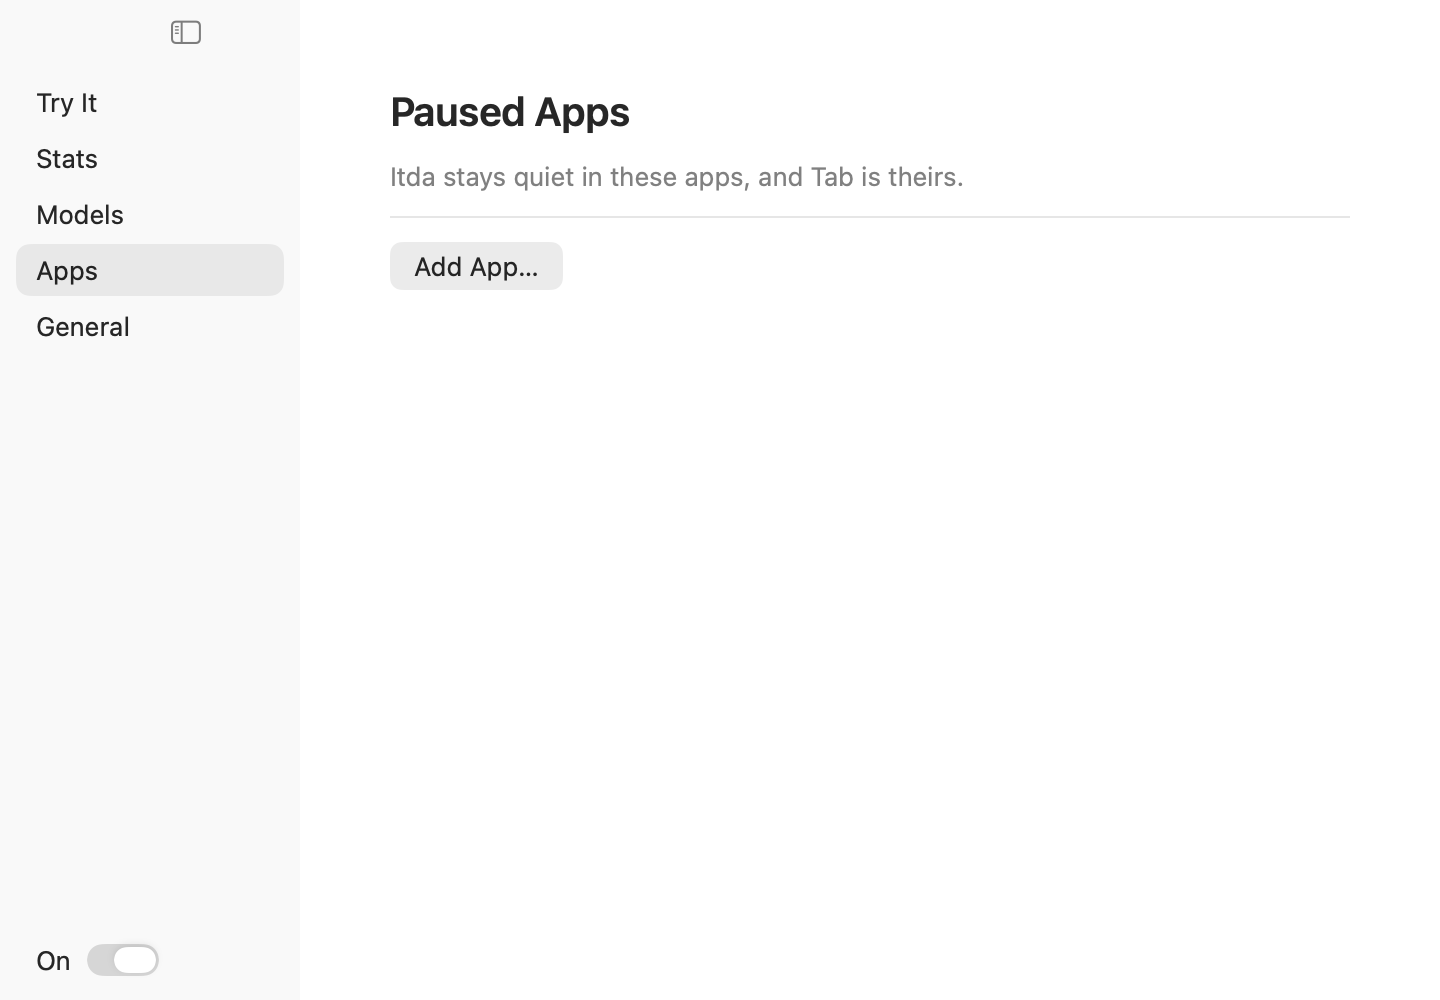
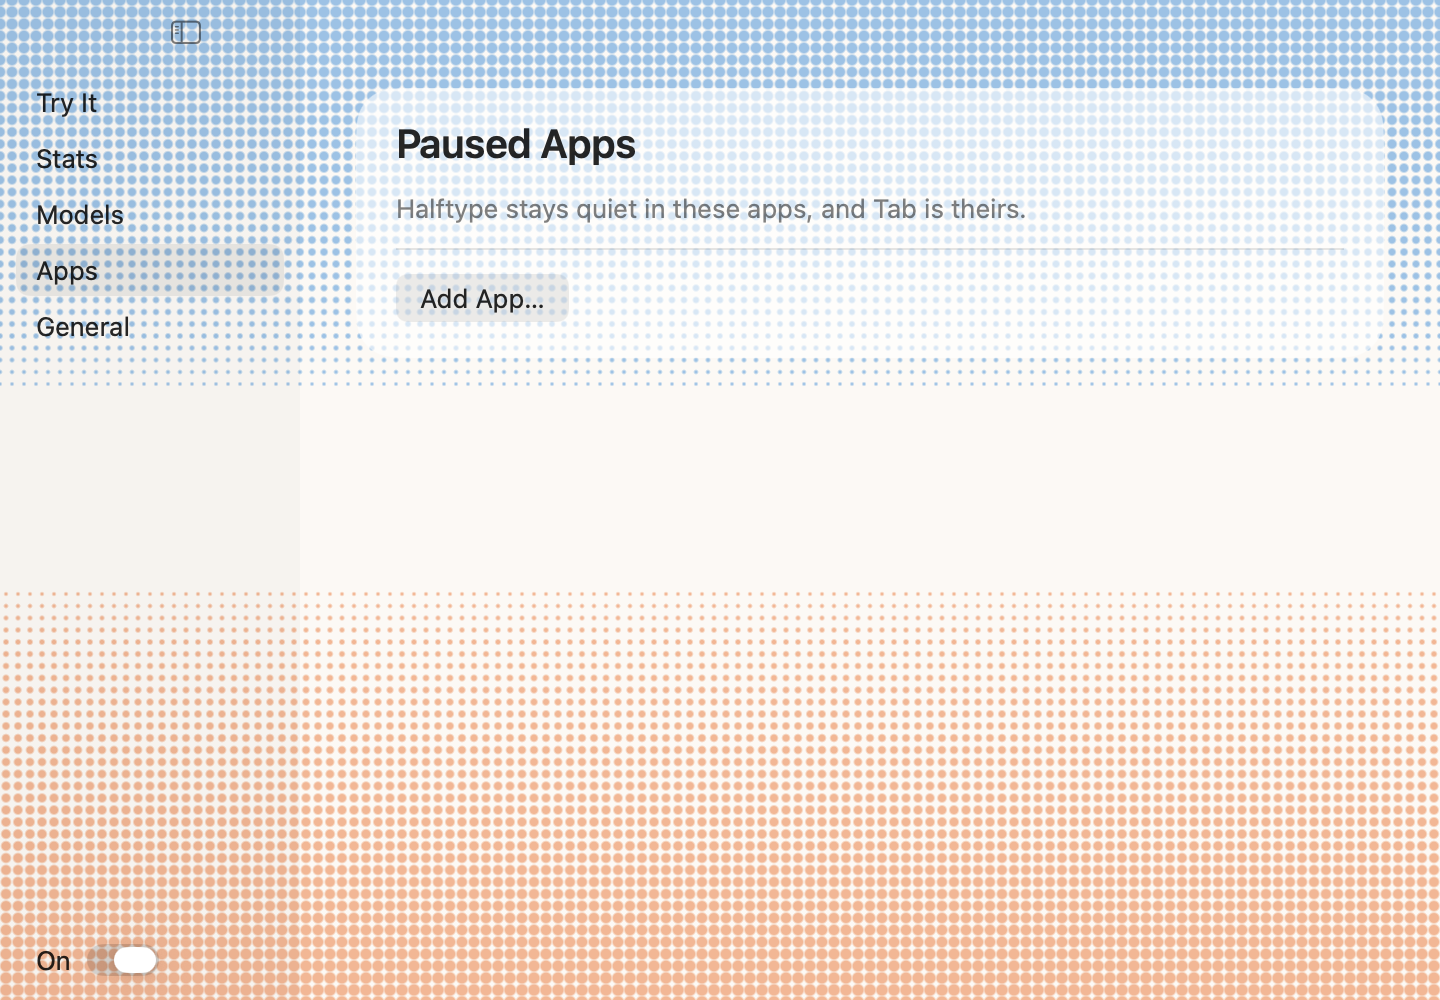
README: window pictures with the sky and the new mark, taken by the window server behind the desktop; privacy names the daily counts

diff --git a/Tests/e2e/E2E.swift b/Tests/e2e/E2E.swift
@@ -267,10 +267,14 @@ enum EndToEnd {
         for shot in shots { render(shot, to: dir) }
     }
 
-    /// `--window-shots <dir>`: the real window's pages, rendered without opening anything on screen.
+    /// `--window-shots <dir>`: the real window's pages. Each is on screen only behind the desktop, as Metal draws the sky only in a
+    /// window on screen, and is taken by the window server (`screencapture -l`); nothing shows and nothing takes focus.
     static func windowShots(to dir: String) {
         App.tallyFile = nil
-        let app = App()
+        // No real tap here, which the line under the field would report; the pictures show the app at work.
+        final class ShownTap: KeyTap, @unchecked Sendable { override var obstacle: Obstacle? { nil } }
+        let app = App(tap: ShownTap())
+        app.why = .idle
         // Made up: busy weekdays, quiet weekends.
         for (back, busy) in [84, 101, 122, 109, 131, 117, 88, 96, 120, 104, 113, 126, 98, 92].enumerated() {
             let date = Calendar.current.date(byAdding: .day, value: -back, to: Date())!
@@ -285,13 +289,19 @@ enum EndToEnd {
             host.frame = CGRect(x: 0, y: 0, width: 720, height: 500)
             let window = NSWindow(contentRect: host.frame, styleMask: [.borderless], backing: .buffered, defer: false)
             window.contentView = host
+            window.level = NSWindow.Level(Int(CGWindowLevelForKey(.desktopWindow)) - 1)
+            window.orderFrontRegardless()
+            defer { window.orderOut(nil) }
             host.layoutSubtreeIfNeeded()
-            RunLoop.main.run(until: Date().addingTimeInterval(0.3))
+            RunLoop.main.run(until: Date().addingTimeInterval(0.6))
             func scrollers(_ view: NSView) -> [NSScrollView] { ((view as? NSScrollView).map { [$0] } ?? []) + view.subviews.flatMap(scrollers) }
             if page == .field { for scroll in scrollers(host) where scroll.documentView is NSTextView { check(!scroll.hasVerticalScroller || scroll.verticalScroller?.isHidden == true, "the field shows no scroller") } }
-            let rep = host.bitmapImageRepForCachingDisplay(in: host.bounds)!
-            host.cacheDisplay(in: host.bounds, to: rep)
-            try! rep.representation(using: .png, properties: [:])!.write(to: URL(fileURLWithPath: dir).appendingPathComponent("window-\(name).png"))
+            let shot = Process()
+            shot.executableURL = URL(fileURLWithPath: "/usr/sbin/screencapture")
+            shot.arguments = ["-x", "-o", "-l\(window.windowNumber)", URL(fileURLWithPath: dir).appendingPathComponent("window-\(name).png").path]
+            try! shot.run()
+            shot.waitUntilExit()
+            check(shot.terminationStatus == 0, "window-\(name) captured")
         }
     }
 

diff --git a/README.md b/README.md
@@ -77,7 +77,7 @@ Wired memory is what counts: nothing else can use it, and Activity Monitor's per
 
 - **One permission: Accessibility.** The app asks for nothing else, and it never uses Screen Recording.
 - **What it reads:** the focused field and text near it in the window, to give the model context. A key tap watches for Tab, Shift-Tab and Esc, and it sees your other keys so it can track Korean composition. All of it stays in memory.
-- **What it writes:** the on/off switch, your paused apps and the paths of models you chose as settings, and model files in Application Support, with where a stopped download got to. Nothing with typed text, and no logs. What you type in its own window is held in memory until the window closes.
+- **What it writes:** the on/off switch, your paused apps and the paths of models you chose as settings, and model files in Application Support, with where a stopped download got to. Also there, for the Stats page, four counts a day: suggestions shown and taken, Tabs, and letters typed for you. Nothing with typed text, and no logs. What you type in its own window is held in memory until the window closes.
 - **Network:** only the models you fetch, from Hugging Face, each checked by SHA-256: the default on first run, and the others when you press Get. And GitHub, about once a day in a release build, to check for an update and fetch it, which sends your macOS version and Halftype's. Turn that off under General. Nothing else. A build you make yourself never checks.
 - **Secure fields** are skipped: Halftype checks the field before every read, and reads no text from a secure one or suggests in it. While any app holds Secure Input, it starts no new read or suggestion, and checks again just before drawing; a suggestion already on screen goes at the next change it sees. The menu says so.
 
